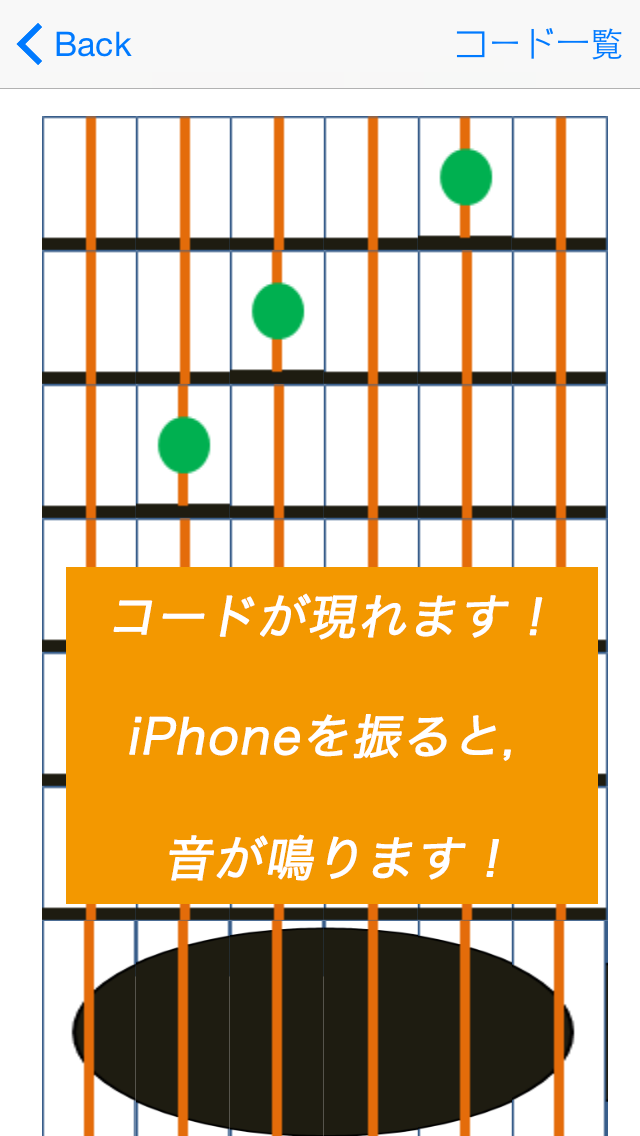
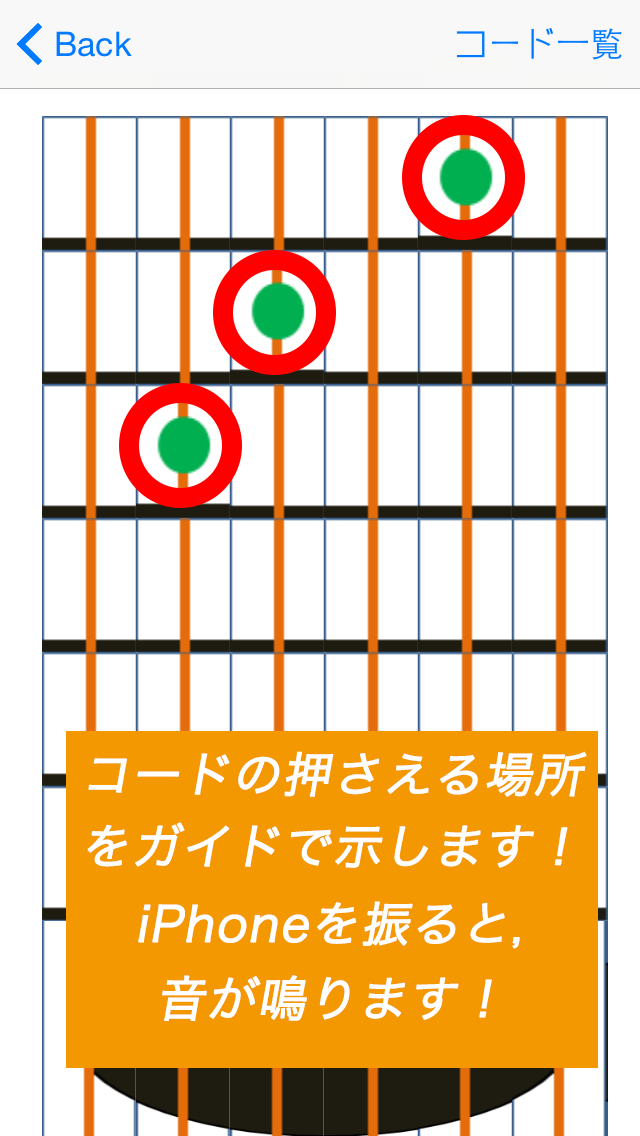
チュートリアル完成！

Changed region(s): [[0.0938, 0.493, 0.9375, 0.9551], [0.1875, 0.2157, 0.5312, 0.4621], [0.625, 0.0924, 0.8438, 0.2157]]

diff --git a/GuitarPotentialApp/TutorialViewController.m b/GuitarPotentialApp/TutorialViewController.m
@@ -24,7 +24,8 @@
     
     // UIScrollViewのインスタンス化
     self.scrollView = [[UIScrollView alloc]init];
-    self.scrollView.backgroundColor = [UIColor whiteColor];
+//    self.scrollView.backgroundColor = [UIColor whiteColor];
+    self.scrollView.backgroundColor = [UIColor brownColor];
     self.scrollView.frame = self.view.bounds;
     
     // 横スクロールのインジケータを非表示にする
@@ -37,6 +38,7 @@
     
     // スクロールの範囲を設定
     [self.scrollView setContentSize:CGSizeMake((pageSize * width), height)];
+    
     
     // スクロールビューを貼付ける
     [self.view addSubview:self.scrollView];
@@ -57,7 +59,7 @@
 //        UIImage *image = [UIImage imageNamed:[NSString stringWithFormat:@"tutorialImage%d", i]];
         UIImage *image = [UIImage imageNamed:[NSString stringWithFormat:@"Tutorial%d_GuitarPotential.png", i+1]];
         UIImageView *imageView = [[UIImageView alloc] initWithImage:image];
-        imageView.frame = CGRectMake(i * width, 0, width, height);
+        imageView.frame = CGRectMake(20+i * width, 0+20, width-40, height);
         [self.scrollView addSubview:imageView];
     }
     
